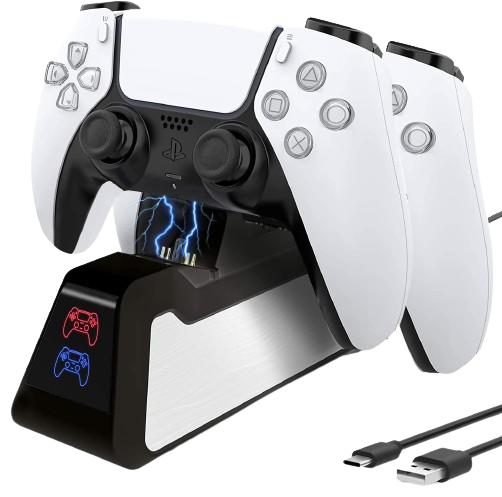
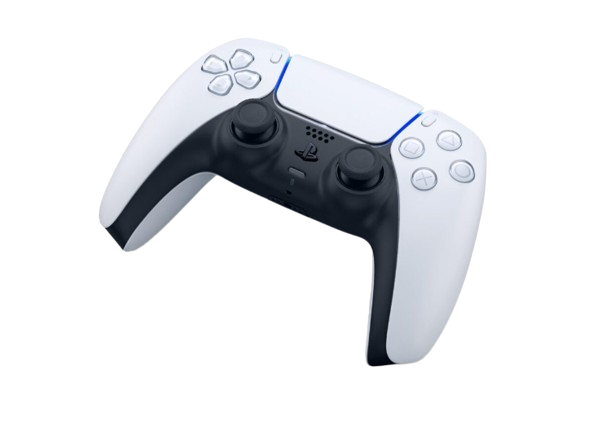
new preview images for products

diff --git a/src/Assets/Products/ProductImgs.js b/src/Assets/Products/ProductImgs.js
@@ -6,20 +6,24 @@ import canonCamera from "./canon-camera/canon-camera.png";
 import comfortChair from "./comfort-chair/comfort-chair.png";
 import curology from "./curology-product-set/curology-product-set.png";
 import gamingLaptop from "./gaming-laptop/gaming-laptop.png";
-import gamingMonitor from "./gaming-monitor/gaming-monitor.png";
 import gamingMonitorThum1 from "./gaming-monitor/gaming-monitor-thum1.png";
 import gamingMonitorThum2 from "./gaming-monitor/gaming-monitor-thum2.png";
+import gamingMonitor from "./gaming-monitor/gaming-monitor.png";
+import gucciBagThum1 from "./gucci-duffle-bag/gucci-duffle-bag-thum1.png";
 import gucciBag from "./gucci-duffle-bag/gucci-duffle-bag.png";
+import kidsCarThum1 from "./kids-electric-car/kids-electric-car-thum1.png";
 import kidsCar from "./kids-electric-car/kids-electric-car.png";
 import northCoat from "./north-coat/north-coat.png";
 import ps5GamepadThum1 from "./ps5-gamepad/ps5-gamepad-thum1.png";
 import ps5GamepadThum2 from "./ps5-gamepad/ps5-gamepad-thum2.png";
-import ps5GamepadThum3 from "./ps5-gamepad/ps5-gamepad-thum3.png";
-import ps5GamepadThum4 from "./ps5-gamepad/ps5-gamepad-thum4.png";
 import ps5Gamepad from "./ps5-gamepad/ps5-gamepad.png";
 import satinJacket from "./quilted-satin-jacket/quilted-satin-jacket.png";
+import cpuCoolerThum1 from "./rgb-liquid-cpu-cooler/rgb-liquid-cpu-cooler-thum1.png";
+import cpuCoolerThum2 from "./rgb-liquid-cpu-cooler/rgb-liquid-cpu-cooler-thum2.png";
+import cpuCoolerThum3 from "./rgb-liquid-cpu-cooler/rgb-liquid-cpu-cooler-thum3.png";
 import cpuCooler from "./rgb-liquid-cpu-cooler/rgb-liquid-cpu-cooler.png";
 import bookshelf from "./small-bookshelf/small-bookshelf.png";
+import usbGamepadThum1 from "./usb-gamepad/usb-gamepad-thum1.png";
 import usbGamepad from "./usb-gamepad/usb-gamepad.png";
 import wiredKeyboardThum1 from "./wired-keyboard/wired-keyboard-thum1.png";
 import wiredKeyboardThum2 from "./wired-keyboard/wired-keyboard-thum2.png";
@@ -32,8 +36,6 @@ import soccerCleats from "./zoom-soccer-cleats/zoom-soccer-cleats.png";
 // import  from "."
 
 export {
-  gamingMonitorThum1,
-  gamingMonitorThum2,
   bookshelf,
   canonCamera,
   canonCameraThum1,
@@ -41,24 +43,30 @@ export {
   canonCameraThum3,
   comfortChair,
   cpuCooler,
+  cpuCoolerThum1,
+  cpuCoolerThum2,
+  cpuCoolerThum3,
   curology,
   dogFood,
   gamingLaptop,
   gamingMonitor,
+  gamingMonitorThum1,
+  gamingMonitorThum2,
   gucciBag,
+  gucciBagThum1,
   kidsCar,
+  kidsCarThum1,
   northCoat,
   ps5Gamepad,
   ps5GamepadThum1,
   ps5GamepadThum2,
-  ps5GamepadThum3,
-  ps5GamepadThum4,
   satinJacket,
   soccerCleats,
   soccerCleatsThum1,
   soccerCleatsThum2,
   soccerCleatsThum3,
   usbGamepad,
+  usbGamepadThum1,
   wiredKeyboard,
   wiredKeyboardThum1,
   wiredKeyboardThum2,

diff --git a/src/Data/productsData.jsx b/src/Data/productsData.jsx
@@ -7,6 +7,9 @@ import {
   canonCameraThum3,
   comfortChair,
   cpuCooler,
+  cpuCoolerThum1,
+  cpuCoolerThum2,
+  cpuCoolerThum3,
   curology,
   dogFood,
   gamingLaptop,
@@ -14,19 +17,20 @@ import {
   gamingMonitorThum1,
   gamingMonitorThum2,
   gucciBag,
+  gucciBagThum1,
   kidsCar,
+  kidsCarThum1,
   northCoat,
   ps5Gamepad,
   ps5GamepadThum1,
   ps5GamepadThum2,
-  ps5GamepadThum3,
-  ps5GamepadThum4,
   satinJacket,
   soccerCleats,
   soccerCleatsThum1,
   soccerCleatsThum2,
   soccerCleatsThum3,
   usbGamepad,
+  usbGamepadThum1,
   wiredKeyboard,
   wiredKeyboardThum1,
   wiredKeyboardThum2,
@@ -43,12 +47,7 @@ export const productsData = [
     afterDiscount: 120,
     addedDate: "2024/2/2",
     img: ps5Gamepad,
-    otherImages: [
-      ps5GamepadThum1,
-      ps5GamepadThum2,
-      ps5GamepadThum3,
-      ps5GamepadThum4,
-    ],
+    otherImages: [ps5Gamepad, ps5GamepadThum1, ps5GamepadThum2],
     rate: 5,
     votes: 88,
     sold: 105,
@@ -122,7 +121,7 @@ export const productsData = [
     afterDiscount: 1100,
     addedDate: "2022/9/15",
     img: gucciBag,
-    otherImages: [],
+    otherImages: [gucciBagThum1],
     rate: 3.5,
     votes: 159,
     sold: 1533,
@@ -137,7 +136,7 @@ export const productsData = [
     afterDiscount: 170,
     addedDate: "2024/3/7",
     img: cpuCooler,
-    otherImages: [],
+    otherImages: [cpuCooler, cpuCoolerThum1, cpuCoolerThum2, cpuCoolerThum3],
     rate: 4.5,
     votes: 190,
     sold: 2522,
@@ -225,7 +224,7 @@ export const productsData = [
     afterDiscount: 39,
     addedDate: "2024/3/7",
     img: kidsCar,
-    otherImages: [],
+    otherImages: [kidsCarThum1],
     rate: 0,
     votes: 0,
     sold: 100,
@@ -240,7 +239,12 @@ export const productsData = [
     afterDiscount: 500,
     addedDate: "2024/3/7",
     img: soccerCleats,
-    otherImages: [soccerCleatsThum1, soccerCleatsThum2, soccerCleatsThum3],
+    otherImages: [
+      soccerCleats,
+      soccerCleatsThum1,
+      soccerCleatsThum2,
+      soccerCleatsThum3,
+    ],
     rate: 4,
     votes: 145,
     sold: 100,
@@ -255,7 +259,7 @@ export const productsData = [
     afterDiscount: 960,
     addedDate: "2024/3/7",
     img: usbGamepad,
-    otherImages: [],
+    otherImages: [usbGamepad, usbGamepadThum1],
     rate: 5,
     votes: 64,
     sold: 100,

diff --git a/src/Components/ProductDetailsPage/ProductPreview.module.scss b/src/Components/ProductDetailsPage/ProductPreview.module.scss
@@ -46,6 +46,8 @@
 }
 
 .otherImages .imgHolder img {
+  aspect-ratio: 1/1;
+  object-fit: contain;
   border-radius: 4px;
   cursor: pointer;
 }
